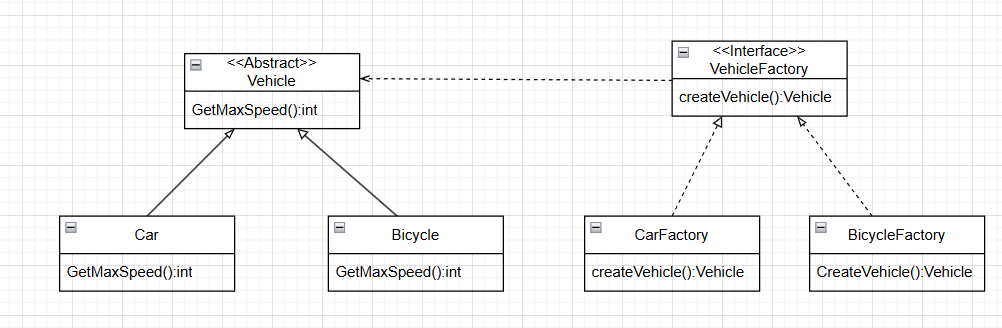
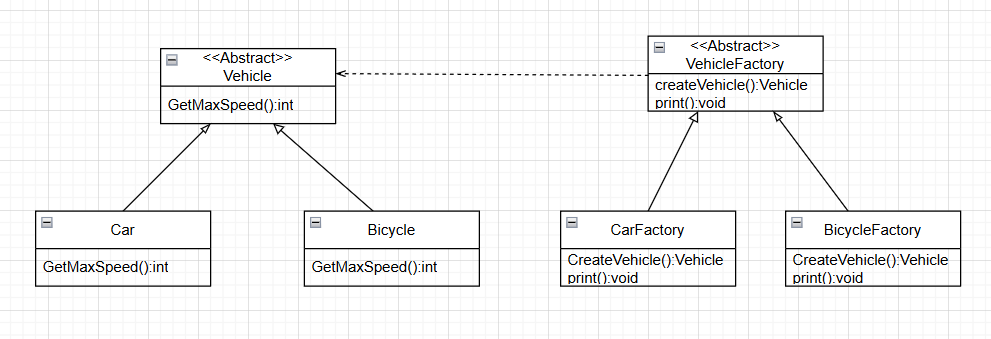
nopbtvn

diff --git a/6_2251172237_NguyenTuanAnh_BaiTap3/Main.java b/6_2251172237_NguyenTuanAnh_BaiTap3/Main.java
@@ -18,18 +18,22 @@ class Bicycle extends Vehicle {
     }
 }
 
-interface VehicleFactory {
-    Vehicle createVehicle();
+abstract class VehicleFactory {
+    public abstract Vehicle createVehicle();
+
+    public void print() {
+        System.out.println("Factory: " + this.getClass().getSimpleName() + " đang tạo phương tiện.");
+    }
 }
 
-class CarFactory implements VehicleFactory {
+class CarFactory extends VehicleFactory {
     @Override
     public Vehicle createVehicle() {
         return new Car();
     }
 }
 
-class BicycleFactory implements VehicleFactory {
+class BicycleFactory extends VehicleFactory {
     @Override
     public Vehicle createVehicle() {
         return new Bicycle();
@@ -44,6 +48,9 @@ public class Main {
         Vehicle[] vehicles = new Vehicle[2];
         vehicles[0] = carFactory.createVehicle();
         vehicles[1] = bicycleFactory.createVehicle();
+
+        carFactory.print();       
+        bicycleFactory.print();   
 
         for (Vehicle v : vehicles) {
             System.out.println("Tốc độ tối đa: " + v.getMaxSpeed());
